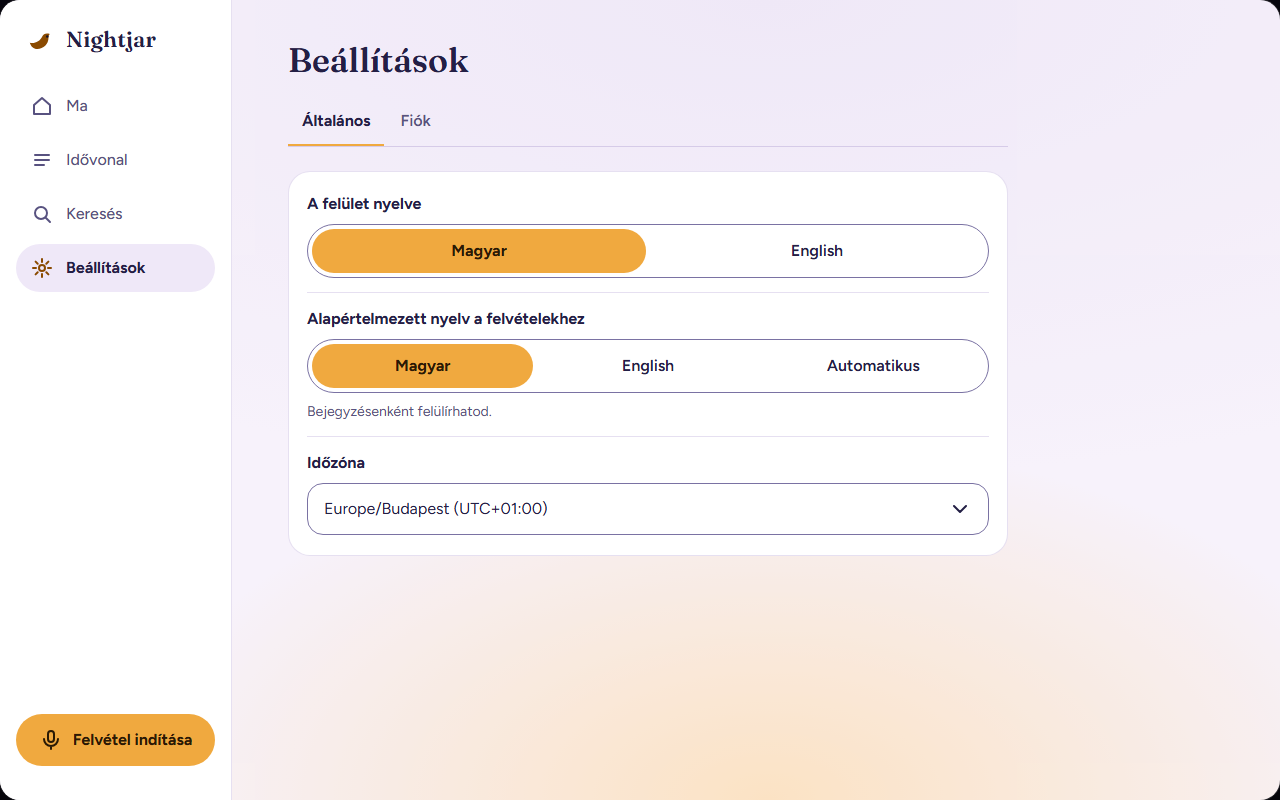
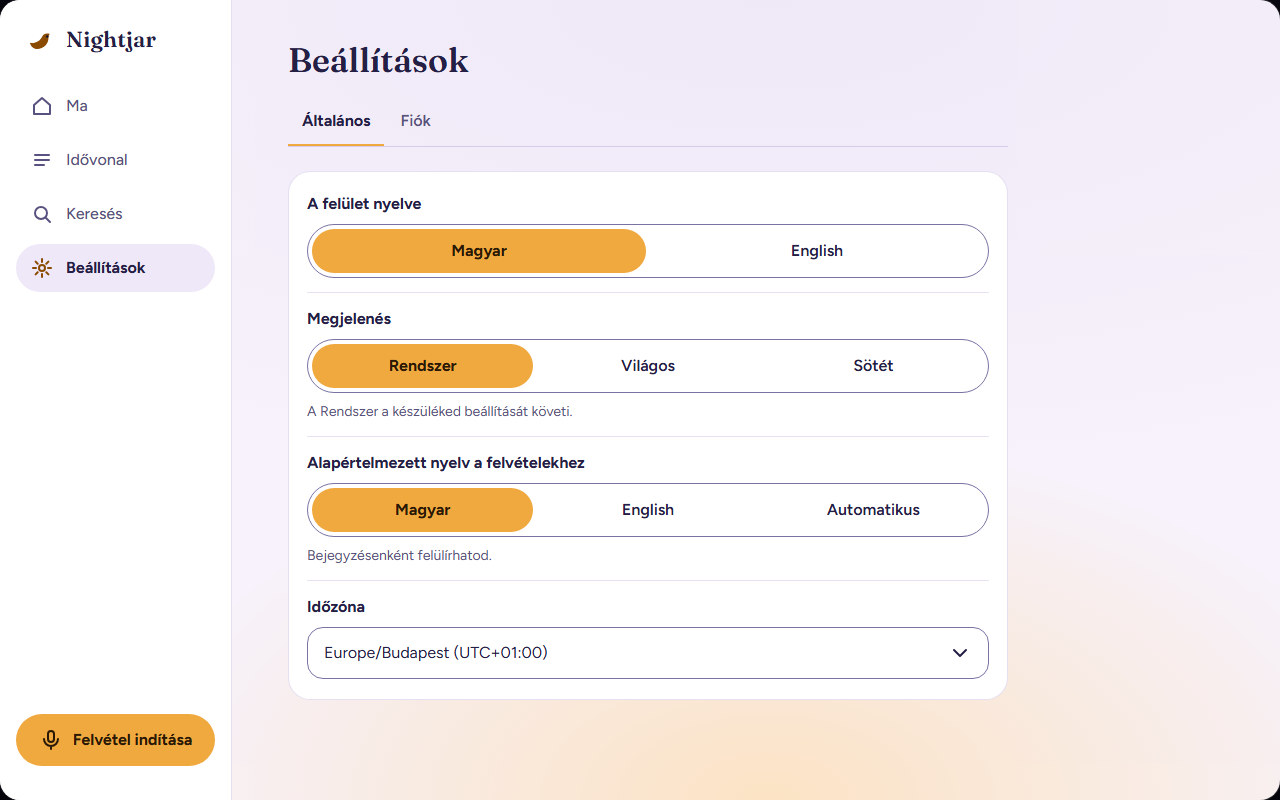
docs(design): add appearance switch to the settings mockup
Rendszer / Világos / Sötét on the General tab, plus an English General screen to check text length.

diff --git a/design/alkony/011-settings-users.html b/design/alkony/011-settings-users.html
@@ -510,11 +510,14 @@ const page=(label,cur,body,o={})=>({label,nav:'beall',tabs:1,side:1,rec:1,over:o
 
 /* ---- General ---- */
 const general=()=>`<div class="group">
-  <div class="srow"><div class="fl">A felület nyelve</div>${seg('A felület nyelve',['Magyar','English'],0)}</div>
-  <div class="srow"><div class="fl">Alapértelmezett nyelv a felvételekhez</div>${seg('Alapértelmezett nyelv',['Magyar','English','Automatikus'],0)}
-    <p class="hint">Bejegyzésenként felülírhatod.</p></div>
-  <div class="srow"><div class="fl">Időzóna</div><div class="inp sel"><span>Europe/Budapest (UTC+01:00)</span>${ic('down')}</div></div></div>`;
+  <div class="srow"><div class="fl">${L('A felület nyelve','App language')}</div>${seg(L('A felület nyelve','App language'),['Magyar','English'],EN?1:0)}</div>
+  <div class="srow"><div class="fl">${L('Megjelenés','Appearance')}</div>${seg(L('Megjelenés','Appearance'),[L('Rendszer','System'),L('Világos','Light'),L('Sötét','Dark')],0)}
+    <p class="hint">${L('A Rendszer a készüléked beállítását követi.','System follows your device setting.')}</p></div>
+  <div class="srow"><div class="fl">${L('Alapértelmezett nyelv a felvételekhez','Default language for recordings')}</div>${seg(L('Alapértelmezett nyelv','Default language'),['Magyar','English',L('Automatikus','Automatic')],0)}
+    <p class="hint">${L('Bejegyzésenként felülírhatod.','You can change it for each entry.')}</p></div>
+  <div class="srow"><div class="fl">${L('Időzóna','Time zone')}</div><div class="inp sel"><span>Europe/Budapest (UTC+01:00)</span>${ic('down')}</div></div></div>`;
 S.general=page('General tab (admin: 4 tabs)','general',general);
+S.generalen=page('General tab in English (text length check)','general',general,{en:1});
 S.basic=page('Basic user: General tab (2 tabs only)','general',general,{basic:1});
 
 /* ---- Transcription (unchanged from 010, now its own tab) ---- */

diff --git a/docs/design.md b/docs/design.md
@@ -43,7 +43,7 @@ transcript label, failed cloud transcription; no privacy line outside Settings, 
 
 | Mockup | What | Status |
 |---|---|---|
-| `design/alkony/011-settings-users.html` | Settings in tabs (General, Transcription, Users, Account; one URL per tab, tabs at the top on phone and desktop), user list, create / edit / delete user, last-admin locked state, change own password, a basic user's settings, "Letöltés" in the recording menu | waiting for owner approval |
+| `design/alkony/011-settings-users.html` | Settings in tabs (General, Transcription, Users, Account; one URL per tab, tabs at the top on phone and desktop), "Megjelenés" theme switch on General (Rendszer / Világos / Sötét, per user, applied right away), user list, create / edit / delete user, last-admin locked state, change own password, a basic user's settings, "Letöltés" in the recording menu | waiting for owner approval |
 | `design/alkony/012-mood.html` | Mood, three variants on the same 1-5 scale: A faces, B colour scale, C words with sky icons. Each shown while writing, right after a recording, on the entry, empty, and on the timeline, plus a side-by-side board | waiting for owner approval |
 
 Screenshots at 390 / 1280, dark + light in `design/alkony/screenshots/011/` and `design/alkony/screenshots/012/`.
